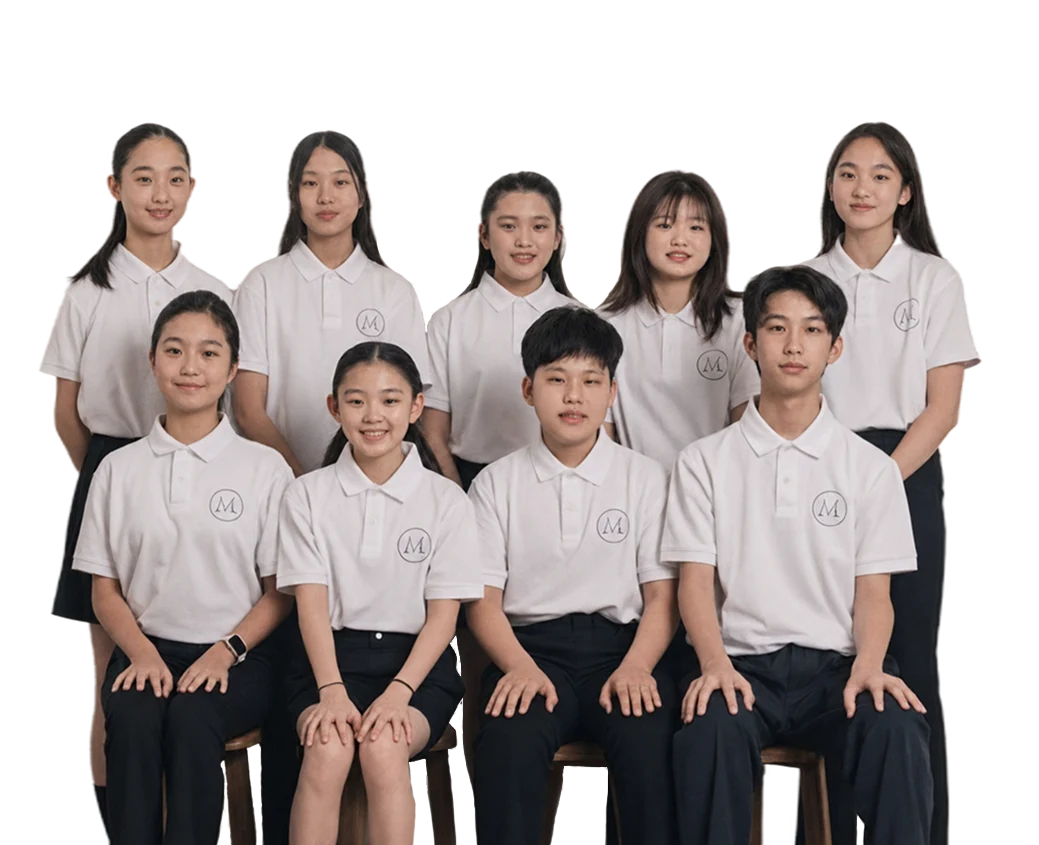
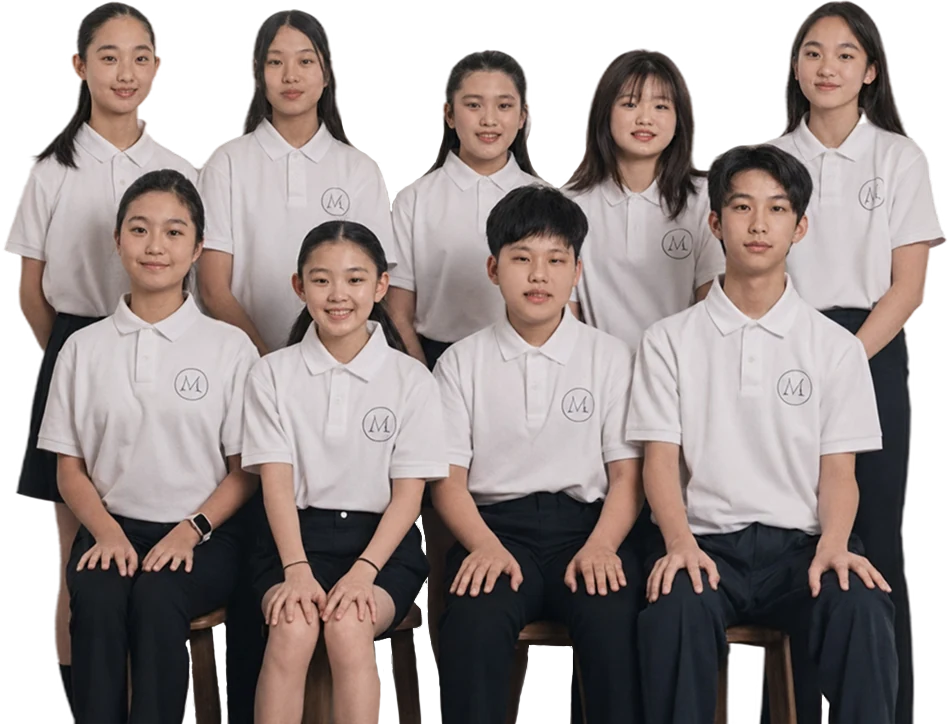
홈 배너를 시안 실측값으로 맞춤
시안(163550.png)을 픽셀로 재서 옮겼습니다. 시안은 이 구역만 오려낸
그림이라 화면 대비 비율은 뜻이 없고, 내부 비율만 옮기면 됩니다.
"시안에서의 1px" 을 --u 하나로 두고 잰 값을 그대로 적었습니다.

  지면   #2A1418 → #482F37
  카드   폭 55~78% · 높이 444px → 710×213 비율(0.30) · 바탕 #F4F2F1
  사진   전혀 솟지 않던 것을 카드 위로 36/32 솟게, 아래는 바닥선에서 잘리게
  글자   제목 30px → 26.6단위(비율 3.4배), 본문 줄간격 1.85 → 1.39

자간은 재 보니 0 이었습니다. 한글은 한 글자가 1em 이라, 길이가 다른
두 줄의 가로폭을 재면 글자크기와 자간이 같이 풀립니다 — 본문 51자
329px / 32자 211px 둘 다 7.92px/자, 자간 0. 제목도 같았습니다.
글자색은 획 한가운데(채널별 최솟값)로 뽑았습니다. 얇은 획은 바탕과
섞여 밝게 잡히는데 그 값을 쓰면 시안보다 흐려집니다.
  제목 #660020 · #242424, 소개 #8B7B80 · #3A3335, 본문 #3A3335

누끼는 투명 여백을 잘라 다시 구웠습니다 — 위치를 사진 상자 기준으로
잡기 때문에 가장자리 투명 띠만큼 덜 솟습니다.

diff --git a/web/app/style.css b/web/app/style.css
@@ -684,6 +684,12 @@ body.menu-open{overflow:hidden}
    밝은 배경으로 되돌리려면 섹션에서 sec--dark 만 빼면 됩니다.
    ══════════════════════════════════════════════════════════════ */
 .sec--dark{background:var(--ground);color:var(--on-ground-dim);border-top:0}
+/* 배너 칸만 한 톤 밝은 버건디입니다 — 시안에서 잰 #482F37.
+   밝은 카드가 뜨는 지면이라 푸터의 --ground(#2A1418)만큼 어두우면
+   대비가 너무 세게 부딪힙니다. 아래로 이어지는 푸터가 더 어두워서
+   내려갈수록 가라앉는 층도 생깁니다. */
+.sec--banner{background:#482F37;padding-block:clamp(100px,12dvh,140px)
+  clamp(40px,6dvh,90px)}
 .sec--dark .eyebrow{color:var(--on-ground)}
 .sec--dark .sec__h{color:#fff}
 .sec--dark .sec__lead{color:var(--on-ground-dim);margin-inline:auto}
@@ -1203,71 +1209,125 @@ a.hcon__r:hover{background:color-mix(in srgb,var(--brand) 4%,transparent)}
 /* ══════════════════════════════════════════════════════════════
    홈 — 배너 두 장 (단원 소개 / 주요 연혁)
    ══════════════════════════════════════════════════════════════
-   어두운 지면 위에 밝은 카드를 눕히고, 배경을 딴 사진(누끼)이 카드
-   위쪽으로 삐져나오게 합니다. 카드 안에 얌전히 담긴 사진보다 눈에
-   먼저 들어오고, 카드와 사진이 한 덩어리로 떠 보입니다.
+   시안(화면 캡처 2026-08-17 163550.png)을 픽셀로 재서 옮긴 것입니다.
+   시안은 이 구역만 오려낸 그림이라 화면 전체 폭을 알 수 없습니다.
+   그래서 "시안에서의 1px" 을 --u 단위 하나로 두고, 아래 숫자는 전부
+   시안에서 잰 값 그대로 적습니다. 화면이 좁거나 낮으면 --u 만 줄어
+   비율이 그대로인 채 작아집니다.
 
-   ★ 사진이 어떻게 삐져나오나
-     사진 칸을 카드 아래쪽에 붙이고(align-self:end), 아래 여백만큼
-     밖으로 밀어 카드 바닥선에 딱 맞춥니다. 그러면 사진 높이가 카드보다
-     클 때 남는 만큼이 저절로 위로 솟습니다. 솟는 높이를 따로 적지
-     않아도 사진 비율이 알아서 정합니다 — 사진을 갈아 끼워도 무너지지
-     않는 것이 이 방식의 이점입니다.
-     대신 위 칸과 부딪히지 않게 카드에 --lift 만큼 위 여백을 둡니다.  */
-.pbns{display:grid}
-/* ★ 사진은 폭이 아니라 높이로 잡습니다.
-   누끼마다 생김새가 딴판입니다 — 단체 사진은 가로로 넓고(1.23:1),
-   첼로는 세로로 깁니다(0.79:1). 폭을 같게 주면 첼로가 카드보다 두 배
-   넘게 솟아 화면을 잡아먹습니다. 높이를 정하고 폭을 따라오게 하면
-   어떤 누끼를 넣어도 솟는 정도가 비슷하게 유지됩니다. */
-.pbn{--pad:44px;--lift:62px;--imgh:clamp(230px,26vw,360px);
-  position:relative;display:grid;
-  grid-template-columns:minmax(0,1fr) auto;
-  gap:40px;align-items:center;
-  margin-top:var(--lift);
-  padding:var(--pad) 52px;
-  background:var(--paper);
+     ── 잰 값 (시안 px) ──
+       지면            #482F37
+       카드            710 × 213   바탕 #F4F2F1
+       카드 안쪽여백    위 29.4 · 옆 27 · 아래 28
+       카드 사이        70
+       제목            26.6   #660020 · #242424
+       소개            7.9    #8B7B80 · #3A3335
+       본문            7.9    #3A3335    줄간격 11 (= 1.39)
+       버튼            77 × 30, 글자 10.2, 안쪽 옆여백 15
+       제목→소개 9.5 · 소개→본문 9.1 · 본문→버튼 22
+       사진            카드 위로 36(단체) / 32(첼로) 솟고 바닥선에서 잘림
+
+   ★ 자간은 재 보니 0 이었습니다 — 주면 시안과 어긋납니다.
+     한글은 글자 하나가 정확히 1em 을 먹습니다. 길이가 다른 두 줄의
+     가로폭을 재면 글자크기와 자간이 같이 풀립니다.
+       본문 51자 줄 329px, 32자 줄 211px → 둘 다 7.92px/자, 자간 0
+       제목 "Our History" 140px, "About Ensemble M.A.Y." 268px
+                                     → 둘 다 26px, 자간 0
+     글자색도 획 한가운데(채널별 최솟값)로 뽑았습니다. 획이 얇으면
+     바탕과 섞여서 밝게 잡히는데, 그 섞인 값을 그대로 쓰면 시안보다
+     흐려집니다.
+
+   ★ 사진이 위로 솟으면서 아래로는 잘리는 방법
+     사진 칸을 position:absolute + bottom:0 으로 카드 바닥선에 붙이고
+     칸 높이를 (카드 213 + 솟는 만큼) 으로 못박은 뒤 overflow:hidden
+     을 겁니다. 칸이 카드보다 커서 위로는 삐져나오고, 칸보다 큰 사진은
+     칸 바닥 — 곧 카드 바닥선 — 에서 잘립니다. 첼로가 그렇습니다.
+     absolute 라서 사진이 카드 높이를 밀어 올리지도 않습니다. 대신
+     글이 사진 밑으로 들어가지 않게 카드 한쪽에 --phw 만큼 비웁니다. */
+.pbns{
+  --u:min(1.803px, (100vw - 48px) / 710, (100dvh - 200px) / 532);
+  display:grid;
+  /* 카드 사이. 마진을 카드에 걸면 Reveal 이 끼워 넣는 div 를 거쳐
+     흘러나가야 해서, 그리드 gap 으로 두는 편이 확실합니다. */
+  gap:calc(var(--u) * 70);
+  /* 첫 장 사진이 솟는 만큼 위를 비웁니다 */
+  padding-top:calc(var(--u) * 36)}
+
+.pbn{
+  --over:36;                        /* 사진이 카드 위로 솟는 높이 */
+  --imgh:247;                       /* 사진 세로 */
+  --phw:341;                        /* 사진 쪽에 비워 둘 폭 */
+  position:relative;display:block;
+  min-height:calc(var(--u) * 213);
+  padding:calc(var(--u) * 29.4) calc(var(--u) * 27) calc(var(--u) * 28);
+  padding-right:calc(var(--u) * var(--phw));
+  background:#F4F2F1;
   text-decoration:none;color:inherit;
   transition:transform 300ms cubic-bezier(.22,.61,.36,1)}
 .pbn:hover{transform:translateY(-3px)}
+
 /* 둘째 장은 좌우를 뒤집습니다. 같은 배치가 두 번 이어지면 두 번째는
-   첫 번째의 반복으로 읽혀서 잘 안 봅니다. */
-/* 첼로는 가늘고 길어서 조금 더 크게 둡니다 — 같은 높이로 두면
-   단체 사진 옆에서 빈약해 보입니다. */
-.pbn--flip{grid-template-columns:auto minmax(0,1fr);--imgh:clamp(250px,28vw,400px)}
-.pbn--flip .pbn__t{order:2}
-.pbn--flip .pbn__ph{order:1}
+   첫 번째의 반복으로 읽혀서 잘 안 봅니다.
+   첼로는 카드보다 한참 길어서(351) 아래가 잘립니다 — 시안 그대로입니다. */
+.pbn--flip{--over:32;--imgh:351;--phw:321;
+  padding-right:calc(var(--u) * 27);
+  padding-left:calc(var(--u) * var(--phw))}
 
-.pbn__t{display:grid;justify-items:start}
-.pbn__h{font:600 30px/1.25 var(--myeongjo);letter-spacing:.01em;
-  color:var(--brand);text-wrap:balance}
+.pbn__t{display:block}
+.pbn__h{display:block;
+  font-family:var(--myeongjo);font-weight:700;
+  font-size:max(30px, var(--u) * 26.6);line-height:1.1;
+  letter-spacing:0;color:#660020}
 /* 둘째 장 제목은 먹색입니다 — 버건디를 두 장 연속 쓰면 무거워집니다 */
-.pbn--flip .pbn__h{color:var(--ink)}
-.pbn__k{font:500 13px/1.6 var(--gothic);color:var(--ink-mid);margin-top:11px}
-.pbn__b{display:grid;gap:3px;margin-top:18px;
-  font:450 13px/1.85 var(--gothic);color:var(--ink-mid);text-wrap:pretty}
-/* 카드 전체가 링크라 이것은 누를 곳을 알려 주는 표시입니다 */
-.pbn__m{margin-top:26px;padding:11px 22px;
-  font:600 12px/1 var(--gothic);letter-spacing:.06em;
-  color:var(--brand);box-shadow:inset 0 0 0 1px var(--brand);
-  transition:background 200ms ease,color 200ms ease}
-.pbn--flip .pbn__m{color:var(--ink);box-shadow:inset 0 0 0 1px var(--ink)}
-.pbn:hover .pbn__m{background:var(--brand);color:#fff;
-  box-shadow:inset 0 0 0 1px var(--brand)}
-.pbn--flip:hover .pbn__m{background:var(--ink);box-shadow:inset 0 0 0 1px var(--ink)}
+.pbn--flip .pbn__h{color:#242424}
 
-.pbn__ph{align-self:end;margin-bottom:calc(-1 * var(--pad));display:block}
-.pbn__ph img{display:block;height:var(--imgh);width:auto;max-width:100%}
+.pbn__k{display:block;margin-top:calc(var(--u) * 9.5);
+  font-family:var(--gothic);font-weight:500;
+  font-size:max(12.5px, var(--u) * 7.9);line-height:1.5;
+  letter-spacing:0;color:#8B7B80}
+/* 둘째 장의 이 줄은 딸림말이 아니라 한 문장이라 본문과 같은 먹색입니다 */
+.pbn--flip .pbn__k{color:#3A3335}
+
+/* 줄바꿈은 글에 이미 들어 있습니다. 줄 사이는 line-height 로만 벌려서
+   시안의 줄간격 11(=1.39배)을 그대로 냅니다 — gap 을 얹으면 벌어집니다. */
+.pbn__b{display:grid;gap:0;margin-top:calc(var(--u) * 9.1);
+  font-family:var(--gothic);font-weight:450;
+  font-size:max(12.5px, var(--u) * 7.9);line-height:1.392;
+  letter-spacing:0;color:#3A3335}
+
+/* 카드 전체가 링크라 이것은 누를 곳을 알려 주는 표시입니다 */
+.pbn__m{display:inline-flex;align-items:center;
+  margin-top:calc(var(--u) * 22);
+  height:calc(var(--u) * 30);padding-inline:calc(var(--u) * 15);
+  font-family:var(--gothic);font-weight:600;
+  font-size:max(13px, var(--u) * 10.2);line-height:1;
+  letter-spacing:0;color:#660020;
+  box-shadow:inset 0 0 0 1px #660020;
+  transition:background 200ms ease,color 200ms ease}
+.pbn--flip .pbn__m{color:#242424;box-shadow:inset 0 0 0 1px #242424}
+.pbn:hover .pbn__m{background:#660020;color:#F4F2F1}
+.pbn--flip:hover .pbn__m{background:#242424;color:#F4F2F1}
+
+.pbn__ph{position:absolute;bottom:0;
+  height:calc(var(--u) * (213 + var(--over)));
+  overflow:hidden;display:flex;align-items:flex-start}
+.pbn__ph img{display:block;width:auto;height:calc(var(--u) * var(--imgh))}
+/* 사진의 바깥쪽 끝은 카드 모서리에서 조금 안으로 들어옵니다 */
+.pbn:not(.pbn--flip) .pbn__ph{right:calc(var(--u) * 19)}
+.pbn--flip .pbn__ph{left:calc(var(--u) * 43)}
 
 @media (max-width:900px){
   /* 좁으면 위아래로 세웁니다. 사진이 먼저 오고 글이 아래입니다 —
-     사진이 카드 위로 솟는 모양은 그대로 살립니다. */
-  .pbn,.pbn--flip{grid-template-columns:1fr;gap:22px;
-    padding-inline:26px;--lift:48px}
-  .pbn--flip .pbn__t,.pbn__t{order:2}
-  .pbn--flip .pbn__ph,.pbn__ph{order:1;margin-bottom:0;
-    justify-self:center;margin-top:calc(-1 * var(--lift) - 20px)}
-  .pbn__h{font-size:24px}
+     사진이 카드 위로 솟는 모양은 그대로 살립니다.
+     여기서는 스냅이 꺼져 있어 세로 여유가 있으므로 화면 높이 제약을
+     빼고 폭으로만 --u 를 잡습니다. */
+  .pbns{--u:min(1.5px, (100vw - 40px) / 710)}
+  .pbn,.pbn--flip{display:flex;flex-direction:column;align-items:flex-start;
+    min-height:0;padding:0 24px calc(var(--u) * 28)}
+  .pbn__ph,.pbn--flip .pbn__ph{position:static;order:-1;
+    height:auto;overflow:visible;align-self:center;
+    margin:calc(var(--u) * -36) 0 22px;inset:auto}
+  .pbn__ph img{height:auto;width:min(64vw,300px)}
 }
 
 /* ══════════════════════════════════════════════════════════════

diff --git a/web/components/HomeBanners.tsx b/web/components/HomeBanners.tsx
@@ -5,14 +5,21 @@ import { Reveal } from "@/components/Reveal";
    홈 — 배너 두 장
 
    가로로 긴 카드 두 장을 세로로 쌓습니다. 사진은 배경을 딴 누끼라서
-   카드 위쪽으로 삐져나옵니다 — 카드 안에 얌전히 담긴 사진보다 눈에
-   먼저 들어오고, 어두운 지면 위에서 밝은 카드와 사진이 한 덩어리로
-   떠 보입니다.
+   카드 위쪽으로 삐져나오고, 아래로는 카드 바닥선에서 잘립니다 — 카드
+   안에 얌전히 담긴 사진보다 눈에 먼저 들어오고, 어두운 지면 위에서
+   밝은 카드와 사진이 한 덩어리로 떠 보입니다.
 
    둘의 좌우를 뒤집어 놓습니다(.pbn--flip). 같은 배치가 두 번 이어지면
    두 번째는 첫 번째의 반복으로 읽혀서 잘 안 봅니다.
 
-   글과 사진 비율, 삐져나오는 높이는 CSS 의 .pbn 한 곳에 있습니다.
+   크기·간격·색은 전부 style.css 의 .pbn 한 곳에 있습니다. 시안을
+   픽셀로 재서 옮긴 값이라 눈대중으로 고치면 어긋납니다 — 잰 값과
+   재는 방법이 그 자리에 적혀 있습니다.
+
+   ★ 사진 파일은 투명 여백을 잘라낸 상태여야 합니다.
+     위치를 사진 상자 기준으로 잡기 때문에, 파일 가장자리에 투명한
+     띠가 남아 있으면 그만큼 덜 솟습니다. 갈아 끼울 때는 알파 경계로
+     크롭해서 넣어 주세요.
    ========================================================================== */
 
 const BANNERS = [
@@ -28,7 +35,6 @@ const BANNERS = [
     ],
     src: "/assets/img/banner/about.webp",
     alt: "흰 셔츠를 입고 모여 선 앙상블 메이 단원들",
-    /* 사진이 가로로 넓어 글자리를 조금 더 줍니다 */
     flip: false,
   },
   {

diff --git a/web/app/(home)/page.tsx b/web/app/(home)/page.tsx
@@ -97,7 +97,7 @@ export default function HomePage() {
         </section>
 
         {/* 4 — 배너 목록. 어두운 지면 위에 밝은 카드 두 장이 뜹니다. */}
-        <section className="sec sec--dark">
+        <section className="sec sec--dark sec--banner">
           <div className="wrap">
             <HomeBanners />
           </div>
